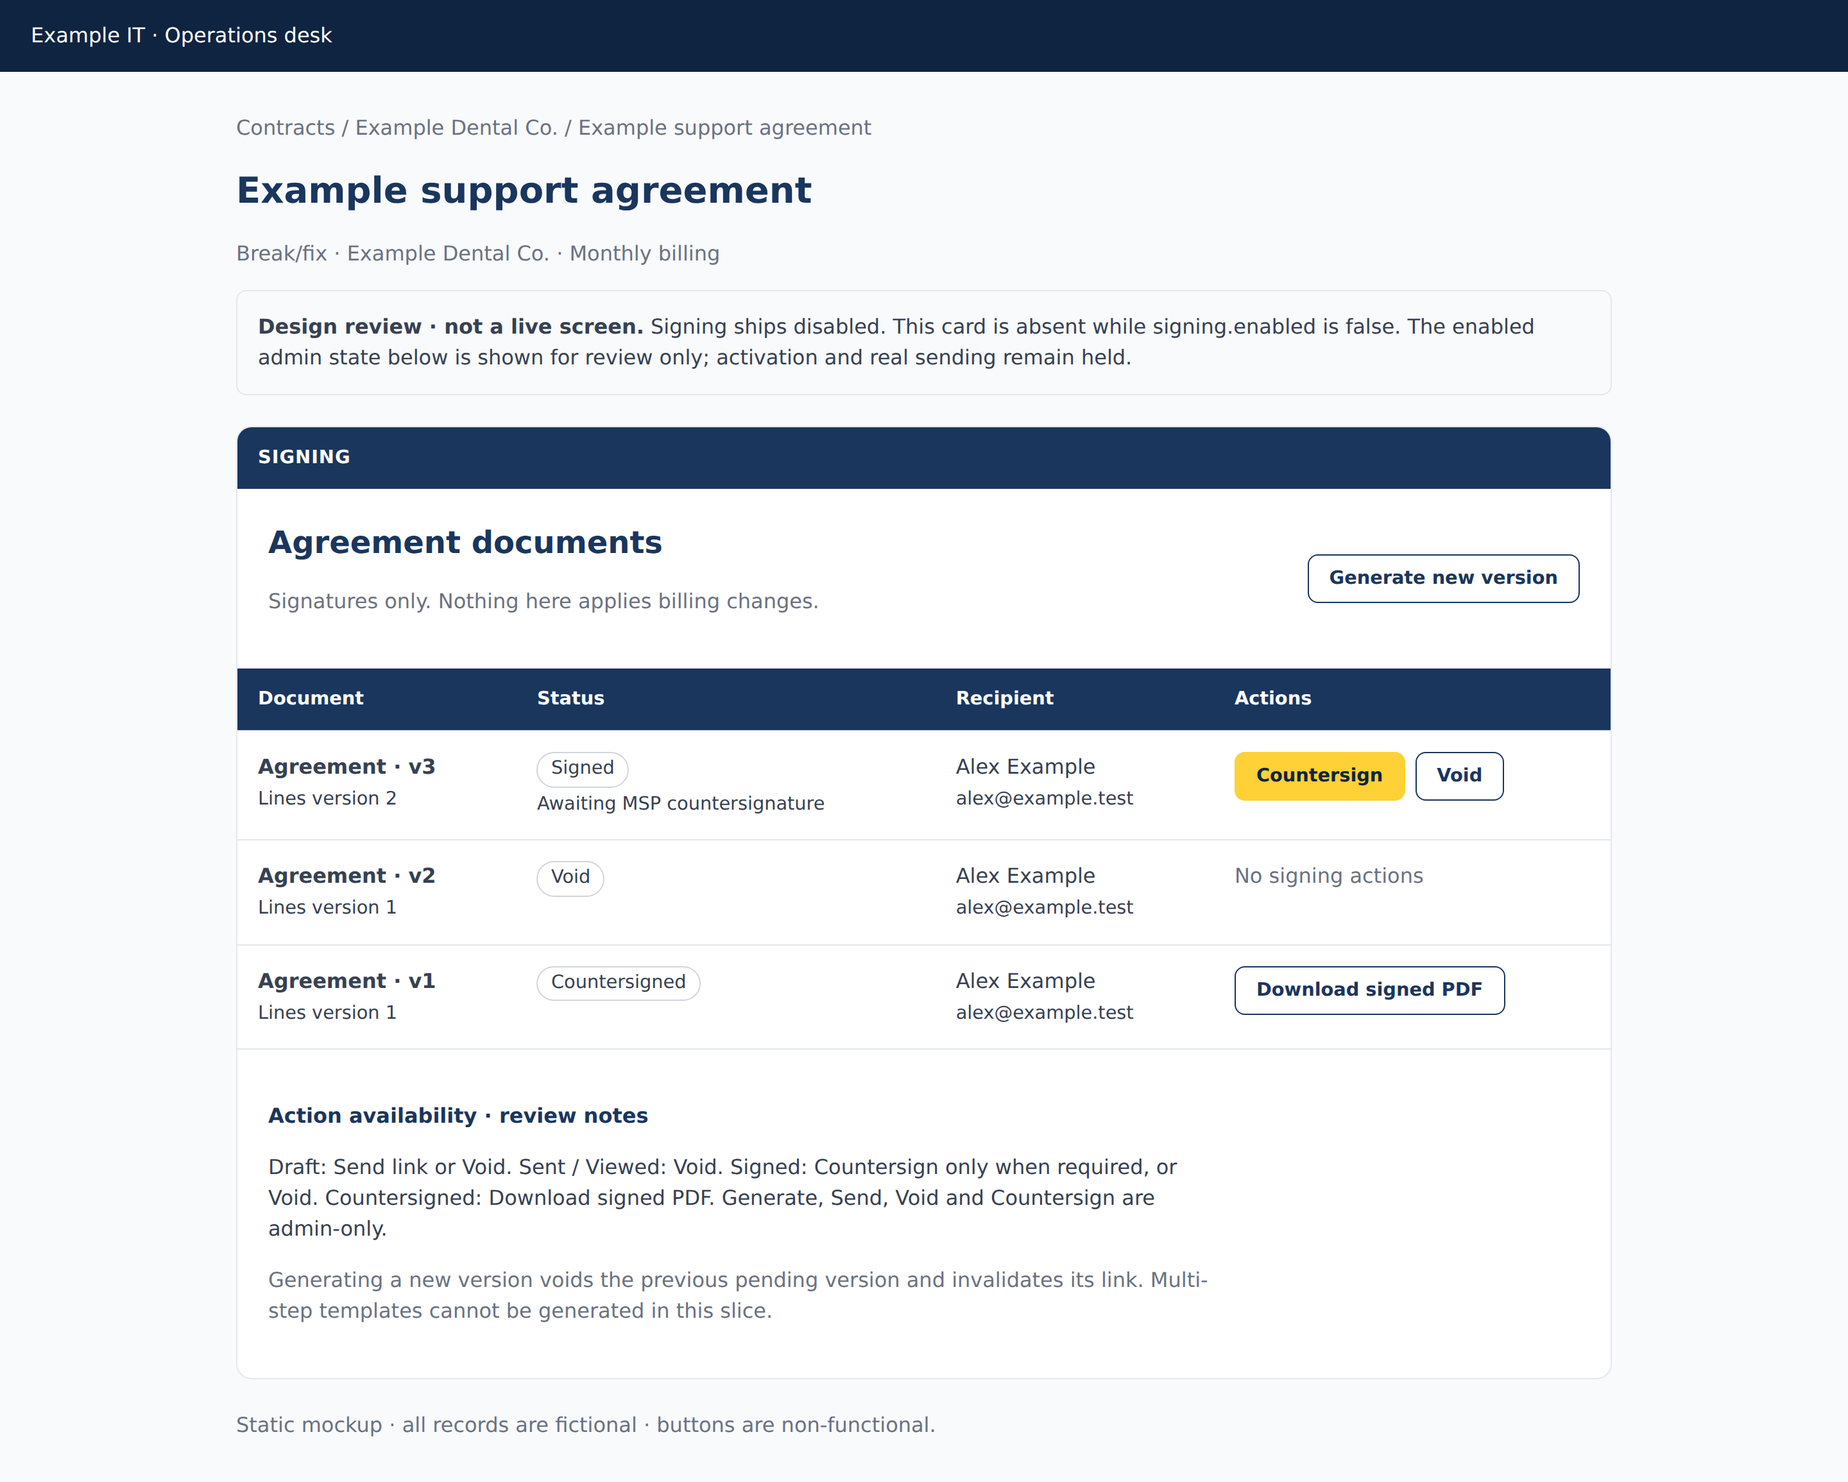
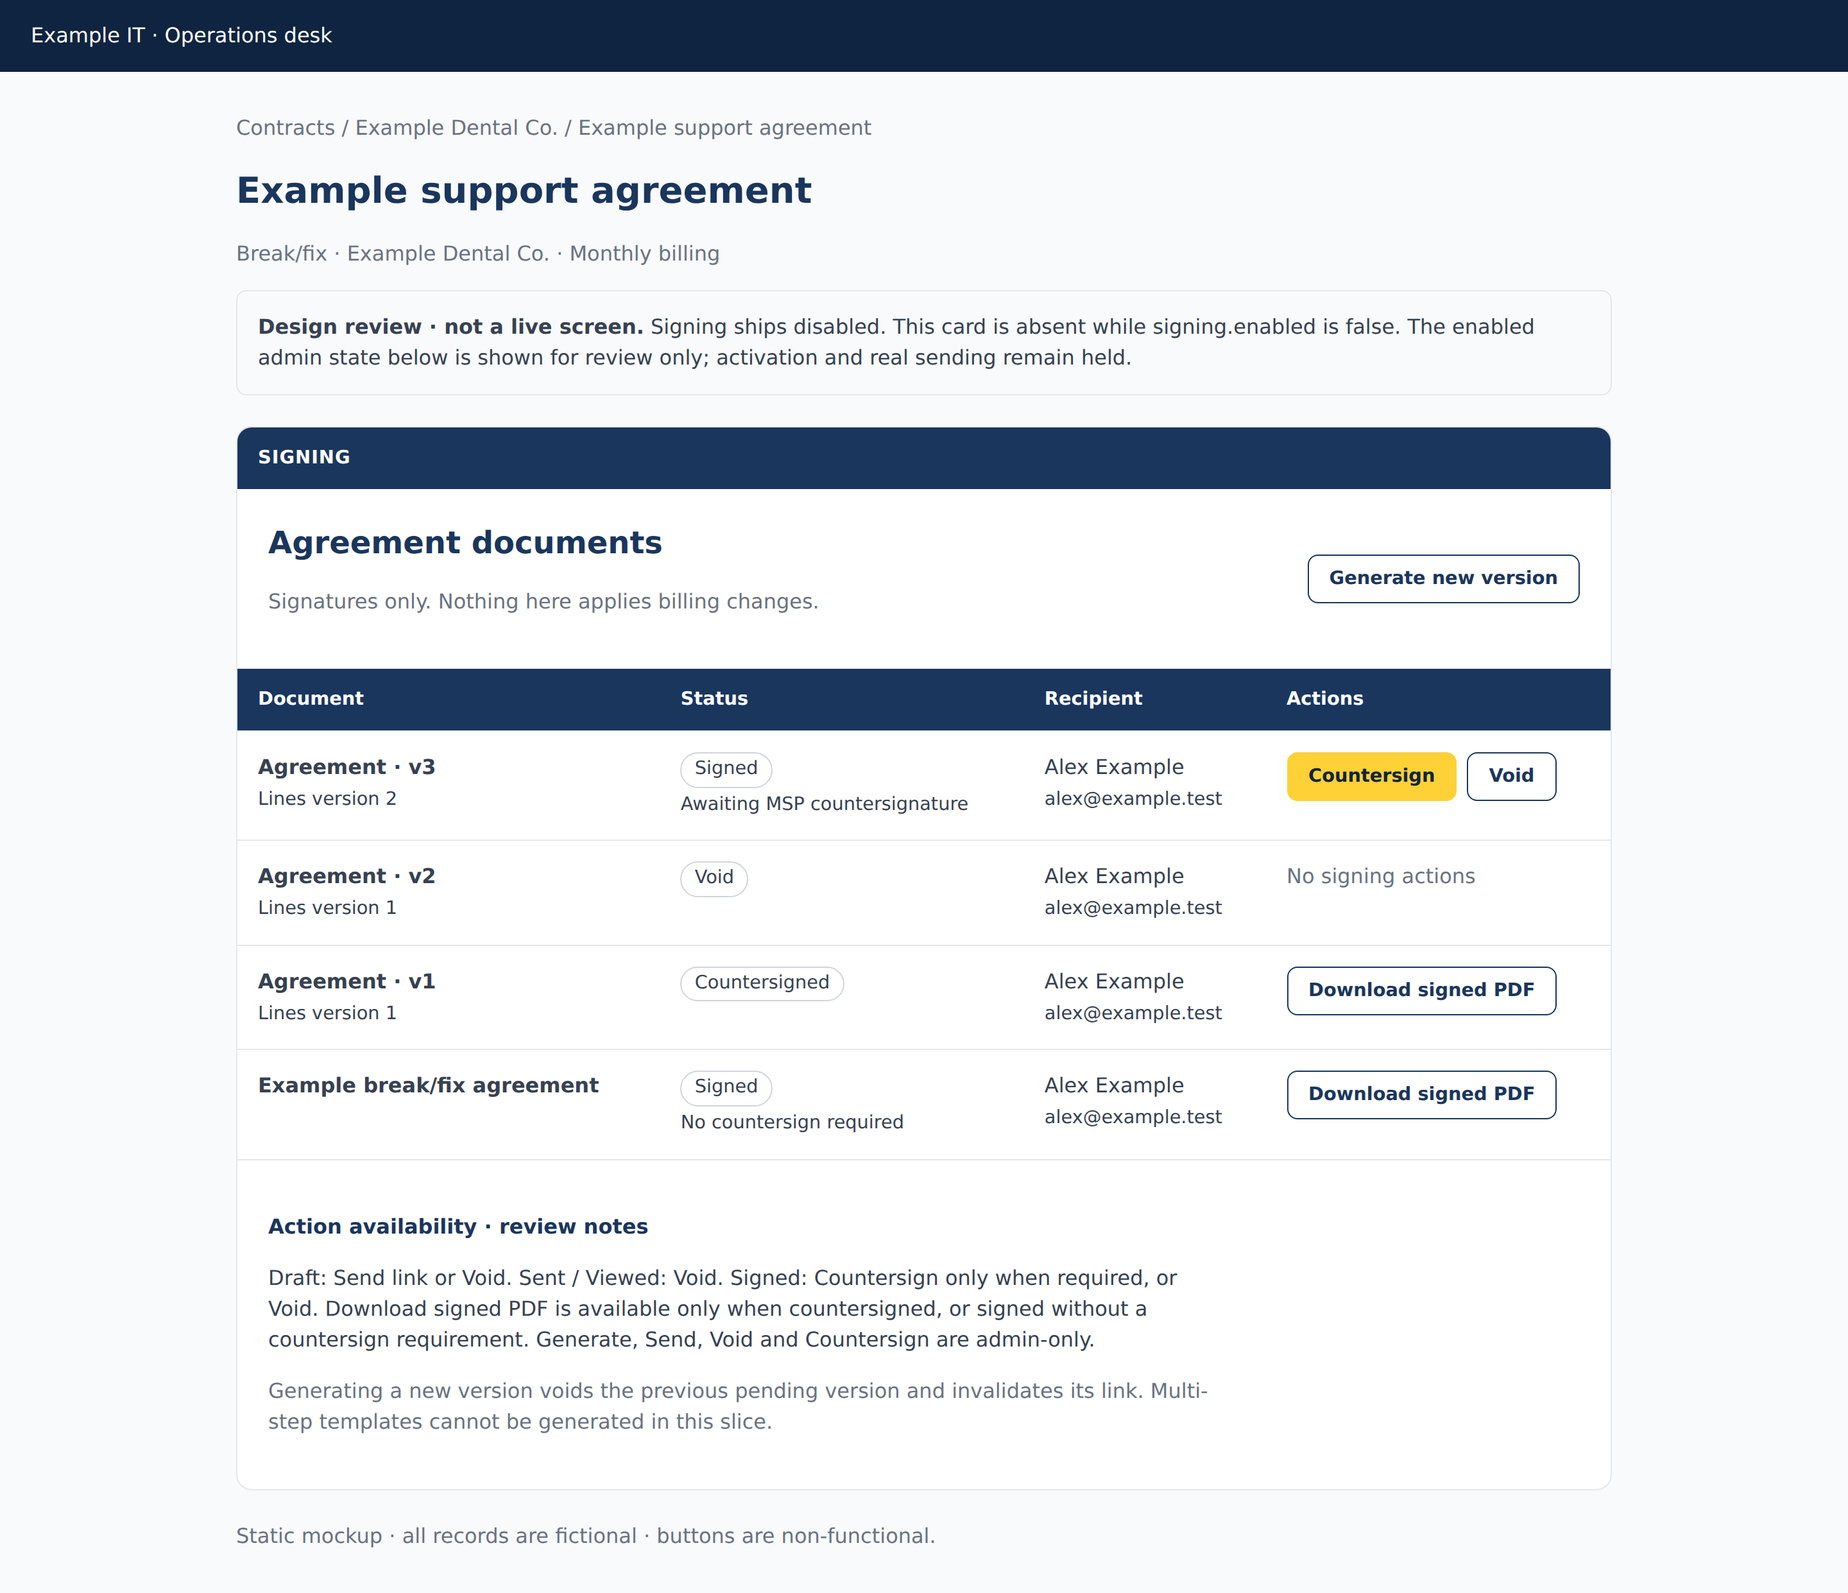
feat(contracts): add signing safety controls and updated PDF mockups
Dormant implementation; full self-gate and review remain required.

Claim-Seat: auden-vm102-s2a

diff --git a/design/mockups/contracts/signing-card.html b/design/mockups/contracts/signing-card.html
@@ -47,6 +47,6 @@ footer { margin-top:var(--psa-spacing-lg); color:var(--psa-colors-muted-ink); }
 <tr><td><strong>Agreement · v3</strong><br><small>Lines version 2</small></td><td><span class="badge">Signed</span><br><small>Awaiting MSP countersignature</small></td><td>Alex Example<br><small>alex@example.test</small></td><td><div class="actions"><button type="button" class="primary">Countersign</button><button type="button">Void</button></div></td></tr>
 <tr><td><strong>Agreement · v2</strong><br><small>Lines version 1</small></td><td><span class="badge">Void</span></td><td>Alex Example<br><small>alex@example.test</small></td><td><span class="muted">No signing actions</span></td></tr>
 <tr><td><strong>Agreement · v1</strong><br><small>Lines version 1</small></td><td><span class="badge">Countersigned</span></td><td>Alex Example<br><small>alex@example.test</small></td><td><button type="button">Download signed PDF</button></td></tr>
-</tbody></table></div>
-<div class="pad"><h3>Action availability · review notes</h3><p>Draft: Send link or Void. Sent / Viewed: Void. Signed: Countersign only when required, or Void. Countersigned: Download signed PDF. Generate, Send, Void and Countersign are admin-only.</p><p class="muted">Generating a new version voids the previous pending version and invalidates its link. Multi-step templates cannot be generated in this slice.</p></div></section>
+<tr><td><strong>Example break/fix agreement</strong></td><td><span class="badge">Signed</span><br><small>No countersign required</small></td><td>Alex Example<br><small>alex@example.test</small></td><td><button type="button">Download signed PDF</button></td></tr></tbody></table></div>
+<div class="pad"><h3>Action availability · review notes</h3><p>Draft: Send link or Void. Sent / Viewed: Void. Signed: Countersign only when required, or Void. Download signed PDF is available only when countersigned, or signed without a countersign requirement. Generate, Send, Void and Countersign are admin-only.</p><p class="muted">Generating a new version voids the previous pending version and invalidates its link. Multi-step templates cannot be generated in this slice.</p></div></section>
 <footer>Static mockup · all records are fictional · buttons are non-functional.</footer></main></body></html>

diff --git a/design/mockups/contracts/signing-public.html b/design/mockups/contracts/signing-public.html
@@ -39,10 +39,8 @@ footer { margin-top:var(--psa-spacing-lg); color:var(--psa-colors-muted-ink); }
 <h1>DRAFT — Review and sign</h1>
 <p>DRAFT — Review the document below before entering your name.</p>
 <section class="card" aria-label="DRAFT — Document preview"><div class="bar">DRAFT — DOCUMENT</div><div class="pad">
-<!-- Static stand-in for the same-token inline PDF; not a separate public record. -->
-<article class="paper"><h2>DRAFT — Example support agreement</h2><p>DRAFT — Prepared for Example Dental Co.</p><p>DRAFT — This fictional agreement describes support services billed at the rates below.</p>
-<table><thead><tr><th>DRAFT — Service</th><th>DRAFT — Quantity</th><th>DRAFT — Rate</th></tr></thead><tbody><tr><td>DRAFT — Remote support</td><td>DRAFT — 1 hour</td><td>DRAFT — $125.00 / hour</td></tr></tbody></table>
-<p>DRAFT — Work is billed for time used. This sample document is for design review only.</p><p class="muted">DRAFT — End of document</p></article>
-<p><button type="button">DRAFT — Open PDF</button></p></div></section>
+<!-- Static local PDF fixture; application uses the live-token PDF route. -->
+<object data="signing-preview.pdf" type="application/pdf" width="100%" height="500" aria-label="DRAFT — Agreement PDF"><p>DRAFT — Open PDF to review the document.</p></object>
+<p><a class="button" href="signing-preview.pdf">DRAFT — Open PDF</a></p></div></section>
 <section class="card"><div class="pad"><label for="typed-name">DRAFT — Full name</label><input id="typed-name" autocomplete="off" placeholder="DRAFT — Enter your full name"><p>DRAFT — By selecting “Sign agreement”, I agree to the document shown above and intend my typed name to be my electronic signature.</p><button type="button" class="primary">DRAFT — Sign agreement</button></div></section>
 <footer>DRAFT — Design preview only. No signature will be recorded.</footer></main></body></html>

diff --git a/tests/Feature/Contracts/SigningGenerateTest.php b/tests/Feature/Contracts/SigningGenerateTest.php
@@ -201,6 +201,182 @@ class SigningGenerateTest extends TestCase
         $this->get('/sign/'.str_repeat('A', 48))->assertOk()->assertSee('DRAFT — Link unavailable');
     }
 
+    public function test_expiry_void_replay_and_pdf_changes_refuse_without_snapshot(): void
+    {
+        $service = app(SigningService::class);
+        foreach (['expired', 'void', 'tampered', 'form'] as $case) {
+            $document = $this->generate();
+            $token = \Illuminate\Support\Str::random(48);
+            $document->update(['status' => 'sent', 'token_hash' => hash('sha256', $token), 'token_expires_at' => now()->addDay()]);
+            if ($case === 'expired') {
+                $document->update(['token_expires_at' => now()->subSecond()]);
+            } elseif ($case === 'void') {
+                $service->void($document);
+                $this->assertNull($document->fresh()->token_hash);
+            } elseif ($case === 'tampered') {
+                Storage::disk('local')->put($document->pdf_path, 'changed');
+            }
+            $this->post('/sign/'.$token, ['typed_name' => 'Alex', 'pdf_sha256' => $case === 'form' ? str_repeat('f', 64) : $document->pdf_sha256])->assertSee('Link unavailable');
+            $this->assertCount(0, $document->snapshots);
+            $this->assertNull($document->fresh()->viewed_at);
+        }
+        $document = $this->generate();
+        $token = str_repeat('R', 48);
+        $document->update(['status' => 'sent', 'token_hash' => hash('sha256', $token), 'token_expires_at' => now()->addDay()]);
+        $form = ['typed_name' => 'Alex', 'pdf_sha256' => $document->pdf_sha256];
+        $this->post('/sign/'.$token, $form)->assertOk();
+        $this->post('/sign/'.$token, $form)->assertOk();
+        $this->assertCount(1, $document->snapshots);
+        $this->assertNull($document->fresh()->token_hash);
+    }
+
+    public function test_snapshot_failure_rolls_back_signature_and_logs_no_token(): void
+    {
+        $document = $this->generate();
+        $token = str_repeat('L', 48);
+        $document->update(['status' => 'sent', 'token_hash' => hash('sha256', $token), 'token_expires_at' => now()->addDay()]);
+        $path = storage_path('logs/signing-control.log');
+        file_put_contents($path, '');
+        config(['logging.default' => 'signing_control', 'logging.channels.signing_control' => ['driver' => 'single', 'path' => $path, 'level' => 'debug']]);
+        \Illuminate\Support\Facades\Log::debug('synthetic-positive-log-control');
+        $records = [];
+        \Illuminate\Support\Facades\Log::listen(function ($event) use (&$records): void {
+            $records[] = [$event->message, $event->context];
+        });
+        \App\Models\SigningSnapshot::created(fn () => throw new RuntimeException('synthetic '.$token));
+        $this->post('/sign/'.$token, ['typed_name' => 'Alex', 'pdf_sha256' => $document->pdf_sha256])->assertOk()->assertDontSee($token);
+        $this->assertCount(0, $document->snapshots);
+        $this->assertSame(hash('sha256', $token), $document->fresh()->token_hash);
+        $this->assertStringContainsString('synthetic-positive-log-control', file_get_contents($path));
+        $this->assertStringNotContainsString($token, file_get_contents($path));
+        $this->assertStringNotContainsString($token, json_encode($records));
+        unlink($path);
+    }
+
+    public function test_send_hash_and_mail_failure_rollback(): void
+    {
+        $document = $this->generate();
+        $link = null;
+        $mail = $this->mock(\App\Services\EmailService::class);
+        $mail->shouldReceive('sendNew')->once()->andReturnUsing(function ($to, $subject, $body, $name, $cc = null, $userId = null, $redact = []) use (&$link) {
+            preg_match('~https?://\\S+~', $body, $matches);
+            $link = $matches[0];
+            $this->assertContains($link, $redact);
+
+            return new \App\Models\Email;
+        });
+        app(SigningService::class)->send($document);
+        $token = basename($link);
+        $this->assertSame(48, strlen($token));
+        $this->assertSame(hash('sha256', $token), $document->fresh()->token_hash);
+        $this->assertStringNotContainsString($token, json_encode($document->fresh()->getAttributes()));
+        $this->assertSame('sent', $document->fresh()->status);
+        $this->assertNotNull($document->fresh()->sent_at);
+        $second = $this->generate();
+        $this->assertNull($document->fresh()->token_hash);
+        $mail->shouldReceive('sendNew')->once()->andThrow(new RuntimeException('synthetic mail failure'));
+        try {
+            app(SigningService::class)->send($second);
+            $this->fail('Mail accepted');
+        } catch (RuntimeException $error) {
+            $this->assertSame('signing_mail_failed', $error->getMessage());
+        }
+        $second->refresh();
+        $this->assertSame('draft', $second->status);
+        $this->assertNull($second->token_hash);
+        $this->assertNull($second->token_expires_at);
+        $this->assertNull($second->sent_at);
+    }
+
+    public function test_finality_no_countersign_and_admin_guard(): void
+    {
+        $this->template->update(['requires_countersign' => false]);
+        $document = $this->generate();
+        $document->update(['status' => 'signed']);
+        $this->assertTrue($document->isFinal());
+        $admin = \App\Models\User::factory()->create(['role' => 'admin']);
+        $this->actingAs($admin)->get(route('contracts.show', $this->contract))->assertSee('Download signed PDF');
+        $this->get(route('signing.download', [$this->contract, $document]))->assertOk();
+        $this->template->update(['requires_countersign' => true]);
+        $pending = $this->generate();
+        $pending->update(['status' => 'signed']);
+        $tech = \App\Models\User::factory()->create(['role' => 'tech']);
+        try {
+            app(SigningService::class)->countersign($pending, $tech, '127.0.0.1', 'Example');
+            $this->fail('Non-admin accepted');
+        } catch (RuntimeException $error) {
+            $this->assertSame('signing_countersign_forbidden', $error->getMessage());
+        }
+        $this->assertCount(0, $pending->snapshots);
+    }
+
+    public function test_headers_throttle_and_snapshot_immutability(): void
+    {
+        foreach (['/sign/'.str_repeat('X', 48), '/sign/'.str_repeat('X', 48).'/pdf', '/sign/invalid'] as $url) {
+            $response = $this->get($url);
+            $this->assertStringContainsString('no-store', $response->headers->get('Cache-Control'));
+            $response->assertHeader('Referrer-Policy', 'no-referrer');
+        }
+        foreach (['signing.public', 'signing.pdf'] as $name) {
+            $this->assertContains('throttle:30,1', app('router')->getRoutes()->getByName($name)->gatherMiddleware());
+        }
+        $document = $this->generate();
+        $token = str_repeat('I', 48);
+        $document->update(['status' => 'sent', 'token_hash' => hash('sha256', $token), 'token_expires_at' => now()->addDay()]);
+        app(SigningService::class)->sign($token, 'Alex', $document->pdf_sha256, '127.0.0.1', str_repeat('x', 600));
+        $snapshot = $document->snapshots()->firstOrFail();
+        $this->assertSame(512, strlen($snapshot->user_agent));
+        foreach (['update', 'delete'] as $operation) {
+            try {
+                $operation === 'update' ? $snapshot->update(['typed_name' => 'Changed']) : $snapshot->delete();
+                $this->fail('Immutable evidence changed');
+            } catch (LogicException $error) {
+                $this->assertSame('signing_snapshot_immutable', $error->getMessage());
+            }
+        }
+    }
+
+    public function test_renderer_strips_active_content_and_makes_no_outbound_socket_connection(): void
+    {
+        \Illuminate\Support\Facades\Http::preventStrayRequests();
+        $socket = stream_socket_server('tcp://127.0.0.1:0', $errorNumber, $errorString);
+        $this->assertIsResource($socket);
+        $address = stream_socket_get_name($socket, false);
+        $marker = storage_path('framework/signing-execution-marker');
+        @unlink($marker);
+        $html = '<img src="http://'.$address.'/image"><script>fetch("http://'.$address.'/script")</script><?php file_put_contents("'.$marker.'", "executed"); ?><p>DRAFT — Safe content</p>';
+        try {
+            $purified = app(TemplateMerge::class)->purify($html);
+            $bytes = (new PdfRenderer)->render($purified);
+            $this->assertStringStartsWith('%PDF-', $bytes);
+            $this->assertFileDoesNotExist($marker);
+            stream_set_blocking($socket, false);
+            $this->assertFalse(@stream_socket_accept($socket, 0));
+            $client = stream_socket_client('tcp://'.$address);
+            $this->assertIsResource($client);
+            $accepted = stream_socket_accept($socket, 1);
+            $this->assertIsResource($accepted, 'Socket detector positive control');
+            fclose($accepted);
+            fclose($client);
+        } finally {
+            fclose($socket);
+            @unlink($marker);
+        }
+    }
+
+    public function test_generate_does_not_change_billing_tables(): void
+    {
+        $tables = ['invoices', 'invoice_lines', 'prepay_transactions', 'recurring_invoice_profiles', 'recurring_invoice_profile_lines'];
+        $before = [];
+        foreach ($tables as $table) {
+            $before[$table] = \Illuminate\Support\Facades\DB::table($table)->get()->toJson();
+        }
+        $this->generate();
+        foreach ($tables as $table) {
+            $this->assertSame($before[$table], \Illuminate\Support\Facades\DB::table($table)->get()->toJson(), $table);
+        }
+    }
+
     public function test_insert_failure_removes_written_file_and_row(): void
     {
         SignableDocument::creating(fn () => throw new RuntimeException('synthetic_insert_failure'));

diff --git a/app/Http/Middleware/SigningResponseHeaders.php b/app/Http/Middleware/SigningResponseHeaders.php
@@ -1,0 +1,29 @@
+<?php
+
+namespace App\Http\Middleware;
+
+use Closure;
+use Illuminate\Http\Request;
+use Symfony\Component\HttpFoundation\Response;
+use Throwable;
+
+class SigningResponseHeaders
+{
+    public function handle(Request $request, Closure $next): Response
+    {
+        if (! $request->is('sign/*')) {
+            return $next($request);
+        }
+        try {
+            $response = $next($request);
+        } catch (Throwable $error) {
+            $status = method_exists($error, 'getStatusCode') ? $error->getStatusCode() : 500;
+            $response = response()->view('signing.neutral', [], $status);
+        }
+        $response->headers->set('Cache-Control', 'no-store');
+        $response->headers->set('Referrer-Policy', 'no-referrer');
+        $response->headers->set('X-Content-Type-Options', 'nosniff');
+
+        return $response;
+    }
+}

diff --git a/bootstrap/app.php b/bootstrap/app.php
@@ -18,6 +18,7 @@ return Application::configure(basePath: dirname(__DIR__))
         },
     )
     ->withMiddleware(function (Middleware $middleware): void {
+        $middleware->prepend(\App\Http\Middleware\SigningResponseHeaders::class);
         $middleware->trustProxies(at: '127.0.0.1');
         $middleware->web(append: [
             \App\Http\Middleware\CheckStorageHealth::class,

diff --git a/docs/INSTALL.md b/docs/INSTALL.md
@@ -4,6 +4,19 @@ Deploy your own instance of this PSA on a fresh VPS. This guide covers everythin
 
 ---
 
+## Dormant agreement signing
+
+| Setting / dependency | Requirement |
+|---|---|
+| dompdf/dompdf | Locked dependency, minimum 3.1.6; install through the normal Composer deployment step. |
+| `signing.enabled` | Defaults false (`SIGNING_ENABLED=false`). Keep disabled until the multi-step workflow and first-send approval are complete. No templates are seeded. |
+| `signing.token_ttl_days` | Defaults 14 (`SIGNING_TOKEN_TTL_DAYS=14`). |
+| Font cache | Renderer creates `storage/app/private/signing-fonts` with mode 0700; application user needs write access. Default DejaVu Sans ships with dompdf. |
+| PDF storage | Private local disk under `signing/`; no public filesystem mapping. |
+| Rollback | Before first use only, revert the signing commits and roll back the three new migrations. After use, preserve signed evidence and obtain an explicit data-retention/rollback decision; do not drop populated tables. |
+
+Agreement terms in this slice are rate cards, not calculated bills. Inherited SKU volume pricing is excluded and deferred to a later slice.
+
 ## 1. Prerequisites
 
 Before you begin, you need:
